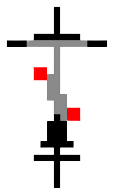
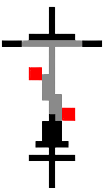
v3

diff --git a/projet1/decor.js b/projet1/decor.js
@@ -20,11 +20,11 @@
 
  const voitureimgRatio = voitureimg.naturalWidth/voitureimg.naturalHeight;
 
-        this.w = 120; 
-        this.h = 200;
+        this.w = 100; 
+        this.h = 180;
   
-        this.x = 0;
-        this.y = -this.h;
+        this.x = 50;
+        this.y = 680//-this.h;
         }
     voitureimg.src="./images/voiture.png";
 }
@@ -35,12 +35,12 @@
     
     }
     hits(bike) {
-        return (
-
-          (bike.x+bike.w >= this.x && bike.x <= this.x+this.w) 
-          &&
-          (bike.y <= this.y+this.h && bike.y+bike.h >= this.y)
-        );
+      return (
+        (bike.x+bike.w >= this.x && bike.x <= this.x+this.w) 
+        &&
+        (bike.y <= this.y+this.h && bike.y+bike.h >= this.y)
+      );
+    }
   
   }
 
@@ -56,7 +56,7 @@
    \_/   (_______)\_______/   )_(   (_______)|/   \__/(_______/  |/ \___/ (_______/(_______/(_______)(_______/
                                                                                                               
     */
-   }
+
 
   class VoitureBleue {
 
@@ -69,11 +69,11 @@
 
         const voitureBleueimgRatio = voitureBleueimg.naturalWidth/voitureBleueimg.naturalHeight;
 
-        this.w = 200; 
-        this.h = 200;
+        this.w = 100; 
+        this.h = 180;
   
-        this.x = 50;
-        this.y = -this.h;
+        this.x = 150;
+        this.y = 680//-this.h;
         }
     voitureBleueimg.src="./images/voitureBleue.png";
 }
@@ -85,10 +85,12 @@
     }
   
     hits(bike) {
-        return (bike.x+bike.w >= this.x && bike.x <= this.x+this.w) 
-          &&
-          (bike.y <= this.y+this.h && bike.y+bike.h >= this.y);
-  }
+      return (
+        (bike.x+bike.w >= this.x && bike.x <= this.x+this.w) 
+        &&
+        (bike.y <= this.y+this.h && bike.y+bike.h >= this.y)
+      );
+    }
   }
 /*
   _______           _______ 
@@ -100,7 +102,6 @@
   | )   ( || (___) || ) \ \__
   |/     \|(_______)|/   \__/
                            
-  */
 
   class Mur {
     constructor() {
@@ -117,17 +118,4 @@
     }
   }
 
-/*
-  _______  _______  _______ _________ _______  _          _       _________          _______  _______ _________ _______  _______  _       
-  (  ____ \(  ___  )(       )\__   __/(  ___  )( (    /|  ( \      \__   __/|\     /|(  ____ )(  ___  )\__   __/(  ____ \(  ___  )( (    /|
-  | (    \/| (   ) || () () |   ) (   | (   ) ||  \  ( |  | (         ) (   | )   ( || (    )|| (   ) |   ) (   | (    \/| (   ) ||  \  ( |
-  | |      | (___) || || || |   | |   | |   | ||   \ | |  | |         | |   | |   | || (____)|| (___) |   | |   | (_____ | |   | ||   \ | |
-  | |      |  ___  || |(_)| |   | |   | |   | || (\ \) |  | |         | |   ( (   ) )|     __)|  ___  |   | |   (_____  )| |   | || (\ \) |
-  | |      | (   ) || |   | |   | |   | |   | || | \   |  | |         | |    \ \_/ / | (\ (   | (   ) |   | |         ) || |   | || | \   |
-  | (____/\| )   ( || )   ( |___) (___| (___) || )  \  |  | (____/\___) (___  \   /  | ) \ \__| )   ( |___) (___/\____) || (___) || )  \  |
-  (_______/|/     \||/     \|\_______/(_______)|/    )_)  (_______/\_______/   \_/   |/   \__/|/     \|\_______/\_______)(_______)|/    )_)
-                                                                                                                                           
   */
-
-
- 

diff --git a/projet1/main.js b/projet1/main.js
@@ -2,7 +2,6 @@ let bike;
 let bouteilles = [];
 let voitures = [];
 let voitureBleues = [];
-let murs = [];
 let caps = [];
 
 const ctx = document.querySelector('#game-board canvas').getContext('2d');
@@ -53,17 +52,17 @@ ctx.beginPath();
   }
 
   bouteilles.forEach(function (bouteille) {
-    bouteille.y += 5;
+    bouteille.y += 6;
     bouteille.draw();
   });
 
-  if (frames % 80 ===0){
+  if (frames % 120 ===0){
     var voiture = new Voiture();
     voitures.push(voiture);
   }
   console.log('voitures', voitures);
   voitures.forEach(function (voiture) {
-    voiture.y += 5;
+    voiture.y -= 5;
     voiture.draw();
   });
 
@@ -72,25 +71,17 @@ ctx.beginPath();
     voitureBleues.push(voitureBleue);
   }
   voitureBleues.forEach(function (voitureBleue) {
-    voitureBleue.y += 5;
+    voitureBleue.y -= 4;
     voitureBleue.draw();
   });
 
-  if (frames % 10 ===0){
-    var mur = new Mur();
-    murs.push(mur);
-  }
-  murs.forEach(function (mur) {
-    mur.y += 5;
-    mur.draw();
-  });
 
   if (frames % 500 ===0){
     var cap = new Cap();
     caps.push(cap);
   }
   caps.forEach(function (cap) {
-    cap.y += 7;
+    cap.y += 1;
     cap.draw();
   });
 
@@ -119,7 +110,7 @@ ctx.beginPath();
 
 
   for (voitureBleue of voitureBleues) {
-    if (voiture.hits(bike)) {
+    if (voitureBleue.hits(bike)) {
       console.log('crashed');
       gameover = true;
     }
@@ -143,7 +134,6 @@ ctx.beginPath();
   ctx.fillText(`${points} pts`, W-50, 100);
   ctx.fillStyle = "blue";
   points++;
-
 
 }
 
@@ -174,6 +164,18 @@ function animLoop() {
   if (!gameover) {
     raf = requestAnimationFrame(animLoop);
 }
+if (gameover) {
+let $btn = document.querySelector("#start-button");
+$btn.innerHTML = "PERDU 😫 ";
+$btn.disabled = true;
+$btn.style.backgroundColor = "red";
+$btn.style.color = "black";
+
+$btn.addEventListener("click", function(){
+  location = "https://cnn.com";
+});
+
+}
 }
 
 
@@ -189,7 +191,6 @@ function startGame() {
     bouteilles = [];
     voitures = [];
     voitureBleues = [];
-    murs = [];
     caps = [];
     raf = requestAnimationFrame(animLoop);
     

diff --git a/projet1/index.html b/projet1/index.html
@@ -3,14 +3,15 @@
 <head>
   <meta charset="UTF-8">
   <title>Document</title>
-  <link rel="stylesheet" href="style.css" />
+  <link rel="stylesheet" href="./style.css" />
 </head>
 <body>
   <div class="game-intro">
-    <img src="images/logo.svg" alt="" class="logo-img">
+    <img src="./images/logo.gif" alt="" class="logo-img">
     <br>
     <button id="start-button">Pédale!</button>
     <p>Esquive les obstacles sur la piste cyclable!</p>
+
   </div>
   <div id="game-board">
     <canvas id="canvas" width="600" height="680">

diff --git a/projet1/win.js b/projet1/win.js
@@ -8,13 +8,13 @@ class Cap {
 
         const capImgRatio = capImg.naturalWidth/capImg.naturalHeight;
 
-        this.w = 130; 
-        this.h = 200;
+        this.w = 70; 
+        this.h = 60;
   
-        this.x = 170;
+        this.x = 0;
         this.y = -this.h;
         }
-        capImg.src="./images/casquette.png";
+        capImg.src="./images/casquette1.png";
 }
     
     draw() {

diff --git a/projet1/bike.js b/projet1/bike.js
@@ -7,7 +7,7 @@ class Bike {
             this.w = 60;
             this.h = this.w / imgRatio;
             this.x = 250;
-            this.y = 550;
+            this.y = 450;
         }
         img.src="./images/bike.png";
     }
@@ -20,9 +20,9 @@ class Bike {
 
 
     moveLeft() {
-    this.x += -20;
+    this.x += -50;
   }
   moveRight() {
-    this.x += 20;
+    this.x += 50;
   }
 }

diff --git a/projet1/obstacles.js b/projet1/obstacles.js
@@ -18,7 +18,7 @@ function random(from, to) {
         this.x = random(200, 400);
         this.y = -this.h;
     }
-    bouteilleimg.src="./images/bottle.png";
+    bouteilleimg.src="./images/bottle1.png";
 }
     
 
